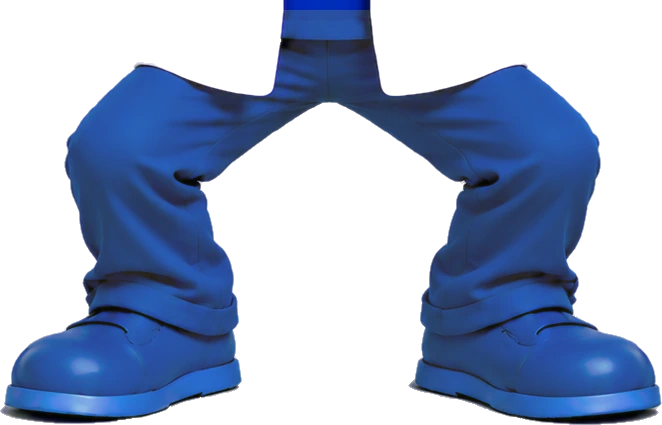
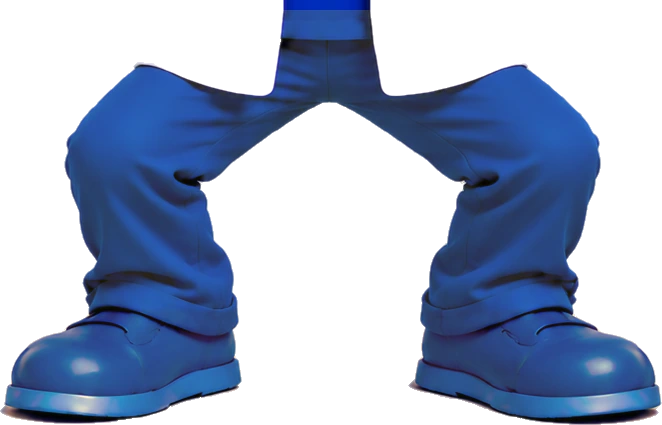
Dr. Smiley full body: the landing's shoes in his own blue
legs-land's shoes were a brighter, purer blue than his; below y 1300 its
blue now takes the master shoes' mean and spread per channel (SHOES in
cutframes.py), faded in over 20 px.

User Guide: nothing changed (the art only). body-rig 158.

Claude-Session: https://claude.ai/code/session_016aZKxyvKPGNVLRdy2FPXno

diff --git a/docs/art/dr-smiley-body/layers/cutframes.py b/docs/art/dr-smiley-body/layers/cutframes.py
@@ -301,6 +301,7 @@ for name,cfg in POSES.items():
 # The leg plates (crouch, jump): both legs whole, pants and shoes below the hip
 # line, the floor shadow out, the top row repeated up under the coat as export.py
 # does, so a longer or shorter coat in the picture never shows a gap.
+SHOES={'legs-land':1300}   # where its shoes start (after the shift)
 LEGS={'crouch':(4,0),'jump':(4,0),'legs-land':(6,41)}   # legs-land: its legs drawn 40 px short (its coat too): moved down so the shoes stand on the floor
 for name,(dx,dy) in LEGS.items():
     if ONLY and name not in ONLY: continue
@@ -320,6 +321,16 @@ for name,(dx,dy) in LEGS.items():
     shift=M[blueM].mean(0)-P[blueP].mean(0); print('  blue shift',shift.round(1))
     w=ndi.gaussian_filter(blueP.astype(float),2)[...,None]
     src=np.clip(P+shift*w,0,255); a=np.clip(ndi.gaussian_filter(mask.astype(float),1.2),0,1)*aP
+    if name in SHOES:
+        # its shoes a brighter, purer blue than his (legs-land, 2026-10-25): below SHOES[name] the
+        # blue's mean and spread per channel moved to the master's shoes', faded in over 20 px
+        y0=SHOES[name]; sm=(alphaM>0.5)&(yy>=1290)&(yy<1415)&((M[:,:,2]-M[:,:,0])>30)
+        sp=mask&(yy>=y0)&((P[:,:,2]-P[:,:,0])>30)
+        mu_m,sd_m=M[sm].mean(0),M[sm].std(0); mu_p,sd_p=src[sp].mean(0),src[sp].std(0)
+        print('  shoes',mu_p.round(), '->', mu_m.round())
+        t=np.clip((src-mu_p)/np.maximum(sd_p,1)*sd_m+mu_m,0,255)
+        wy=np.clip((yy-y0+20)/20.,0,1)[...,None]*ndi.gaussian_filter(sp.astype(float),1.5)[...,None]
+        src=src*(1-wy)+t*wy
     top=int(np.where(mask.any(1))[0].min())
     for y in range(990,top+10): mask[y]=mask[top+10]; src[y]=P[top+10]; a[y]=a[top+10]
     rgba=np.dstack([src,a*mask*255]).astype(np.uint8); fr=Image.fromarray(rgba,'RGBA'); bb=fr.getbbox()

diff --git a/docs/handoff-dr-smiley.md b/docs/handoff-dr-smiley.md
@@ -84,8 +84,8 @@ Jose to run it from `body-master.png` in a fresh ChatGPT chat). The shoulder
 stub past the front drawings is fixed (`body-trim.webp`, dr-smiley.md,
 "The shoulder stub"). Jose's first legs-toes run drifted (heels down, made
 from the wince picture) and was not used. The walk's armpit slit is filled (gussets, dr-smiley.md "The armpits").
-Open, seen in review: the landing's shoes
-are a brighter blue than his; the mirrored wave's sleeve has a small step
+The landing's shoes match his now.
+Open, seen in review: the mirrored wave's sleeve has a small step
 at the armpit. Still open,
 seen in the review: the mirrored wave's sleeve has a small step in its
 cut at the armpit (a few px, visible only zoomed in).

diff --git a/docs/features/dr-smiley.md b/docs/features/dr-smiley.md
@@ -504,6 +504,11 @@ swung out, it fills the slit's top, and below the armpit the gap stays as
 a real one does. Only the inner half, so an arm swung in (the walk's -14)
 never uncovers its outer edge. 61 layers.
 
+**The landing's shoes (same chat).** `legs-land`'s shoes were a brighter,
+purer blue than his. Below y 1300 its blue is now moved to the master
+shoes' mean and spread per channel (`SHOES` in `cutframes.py`), faded in
+over 20 px so the trouser hem never shows a line.
+
 Jose's standing picture (`docs/art/dr-smiley-body/body-master.png`) cut
 into layers by code (`docs/art/dr-smiley-body/layers/build.py`), since a
 cloud session has no image generator; the drawn poses from
